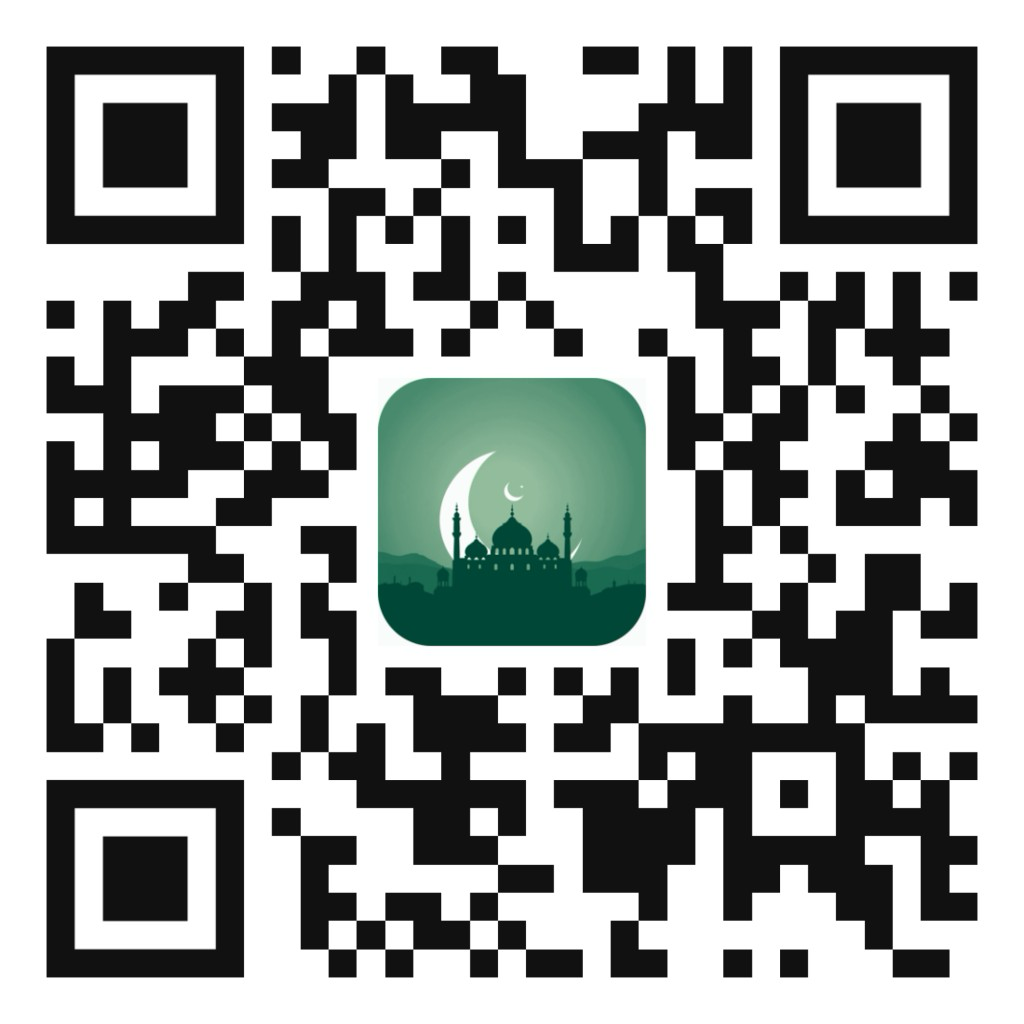
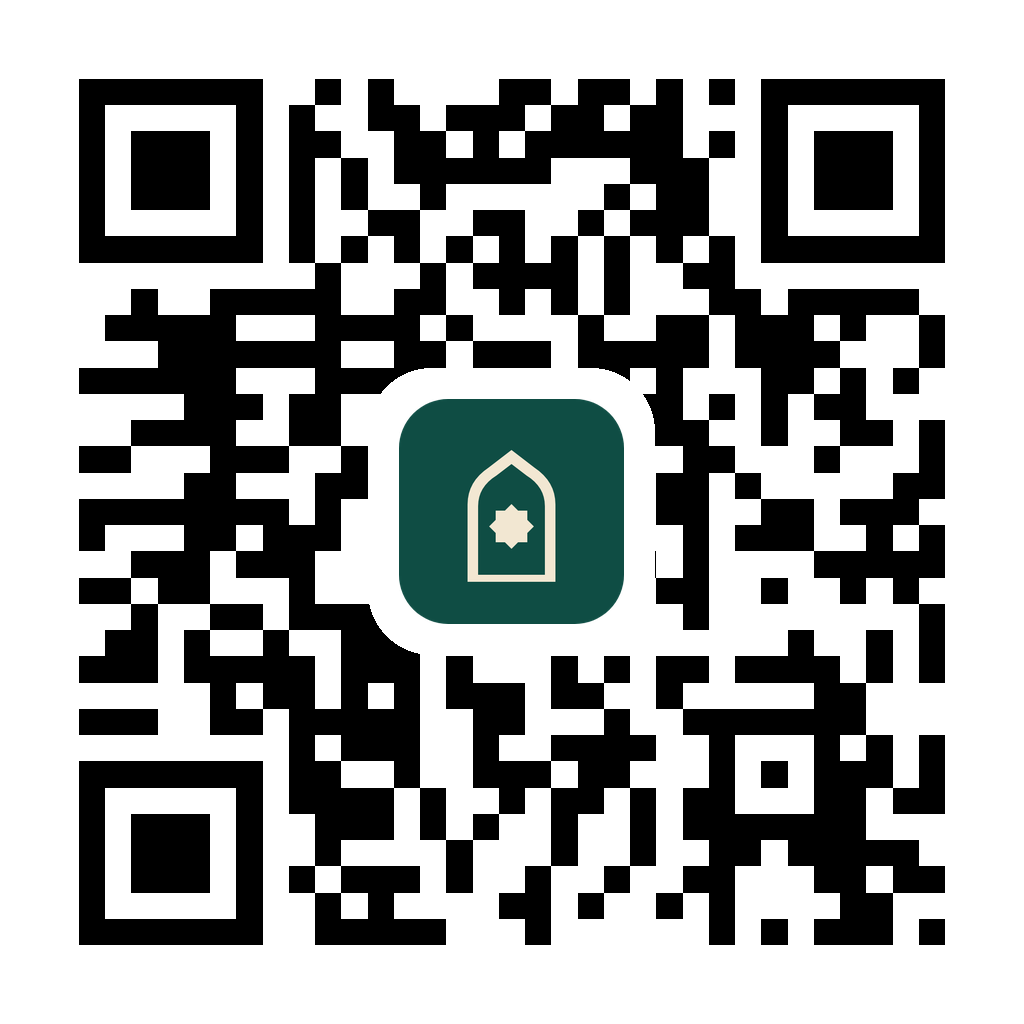
Point the shared month and Settings at the website, not the repo
The share image is the one artefact that leaves the phone and lands in
front of people who do not have the app, and it was handing them a source
tree — with a QR code carrying the app's old mosque-and-crescent icon,
generated once by hand and never touched again through two logo changes
and the launch of a website.

Both now say mihrab.elghamri.se. The QR is regenerated by
branding/tools/qr_code.py rather than exported by hand, so the next time
the address changes it is one command: error correction H, which is what
makes a mark in the middle safe, and the current app icon on a white plate
so the dark green does not merge into the modules around it.

Verified rather than eyeballed: macOS Vision — the same framework the
camera uses — decodes the file to https://mihrab.elghamri.se/, and still
does at 240, 180 and 120px, well under the 60pt it renders at.

Settings' footer link went to the repo too. Someone who has scrolled to the
bottom of Settings wants to know about the app; the source is a different
question, and it is still one tap away from the site and from the
attributions directly below. The mushaf-assets and third-party links there
are unchanged — those genuinely point at GitHub.

Addresses now live in src/config/links.ts instead of as literals in two
screens, which is how they drifted apart in the first place.

diff --git a/src/screens/share/ShareBanner.tsx b/src/screens/share/ShareBanner.tsx
@@ -4,6 +4,7 @@
 import { memo } from 'react';
 import { Image, StyleSheet, Text, View } from 'react-native';
 import { useTranslation } from 'react-i18next';
+import { MIHRAB_WEBSITE_LABEL } from '../../config/links';
 
 /**
  * Top banner of the share-image composite — task #64 split.
@@ -31,7 +32,11 @@ function ShareBannerImpl({
       <View style={[styles.bannerTop, { flexDirection: 'row' }]}>
         <View style={[styles.bannerLeft, { alignItems: 'flex-start' }]}>
           <Text style={styles.appName}>{t('app.name')}</Text>
-          <Text style={styles.githubLink}>github.com/Hassan-PS/Mihrab</Text>
+          {/* The website, not the repo. This image is the one artefact that
+              leaves the phone and lands in front of people who do not have
+              the app — handing them a source tree is answering a question
+              they did not ask. The QR beside it goes to the same place. */}
+          <Text style={styles.siteLink}>{MIHRAB_WEBSITE_LABEL}</Text>
         </View>
         <View style={styles.bannerRight}>
           <Image
@@ -68,7 +73,7 @@ const styles = StyleSheet.create({
   qrCode: { width: 60, height: 60 },
   bannerBottom: { marginTop: 10, gap: 2 },
   appName: { color: '#ffffff', fontSize: 18, fontWeight: '700' },
-  githubLink: { color: '#dcfce7', fontSize: 11 },
+  siteLink: { color: '#dcfce7', fontSize: 11 },
   islamicMonth: { color: '#ffffff', fontSize: 16, fontWeight: '700' },
   gregorianMonth: { color: '#dcfce7', fontSize: 12 },
   locationText: { color: '#dcfce7', fontSize: 11 },

diff --git a/src/screens/settings/AboutCard.tsx b/src/screens/settings/AboutCard.tsx
@@ -18,6 +18,7 @@ import { DEFAULT_SETTINGS } from '../../settings/types';
 import { rateApp } from '../../polish/rateApp';
 import { resetFeatureTour } from '../../polish/FeatureTourModal';
 import { sharedSettingsStyles as s } from './sharedStyles';
+import { MIHRAB_WEBSITE, MIHRAB_WEBSITE_LABEL } from '../../config/links';
 
 function MaybeSupportDeveloperSection({ palette }: { palette: AppPalette }) {
   if (!showDonationsUi()) return null;
@@ -274,14 +275,18 @@ function AboutCardImpl() {
           style={[styles.versionText, { color: palette.muted }]}>
           {t('settings.versionInstalled', { version: versionLabel })}
         </Text>
+        {/* The website, not the repo. Someone who has scrolled to the foot
+            of Settings wants to know about the app; the source tree is a
+            different question, and it is still one tap away from the site
+            and from the attributions below. */}
         <Text
           accessibilityRole="link"
-          accessibilityLabel="github.com/Hassan-PS/Mihrab"
+          accessibilityLabel={MIHRAB_WEBSITE_LABEL}
           style={[styles.versionLink, { color: palette.accent }]}
           onPress={() => {
-            void Linking.openURL('https://github.com/Hassan-PS/Mihrab');
+            void Linking.openURL(MIHRAB_WEBSITE);
           }}>
-          github.com/Hassan-PS/Mihrab
+          {MIHRAB_WEBSITE_LABEL}
         </Text>
       </View>
       <Attributions palette={palette} />

diff --git a/src/config/links.ts b/src/config/links.ts
@@ -1,0 +1,21 @@
+/**
+ * The addresses the app points people at, in one place.
+ *
+ * They were literals scattered across screens, and they drifted: the shared
+ * month image was still printing the GitHub repo — with a QR code carrying
+ * the app's old mosque icon — months after there was a website to send
+ * people to, and Settings sent everyone to the source tree rather than to
+ * the page written for them.
+ *
+ * The website is the front door. GitHub is for people who want the source,
+ * which is a different audience and a different link.
+ */
+
+/** The project's own site. What a stranger should be handed. */
+export const MIHRAB_WEBSITE = 'https://mihrab.elghamri.se';
+
+/** Shown rather than linked — a bare host reads better than a URL. */
+export const MIHRAB_WEBSITE_LABEL = 'mihrab.elghamri.se';
+
+/** The source. Still linked from the attributions, where it belongs. */
+export const MIHRAB_REPO = 'https://github.com/Hassan-PS/Mihrab';

diff --git a/__tests__/siteVersion.test.ts b/__tests__/siteVersion.test.ts
@@ -40,7 +40,7 @@ describe('F-Droid recipe mirror', () => {
 
   it('has a build entry for it', () => {
     expect(recipe).toMatch(
-      new RegExp(`versionName: ${versionName.replace(/\./g, '\\.')}\\b`),
+      new RegExp(`versionName: ${String(versionName).replace(/\./g, '\\.')}\\b`),
     );
     expect(recipe).toMatch(new RegExp(`versionCode: ${versionCode}\\b`));
   });

diff --git a/branding/tools/qr_code.py b/branding/tools/qr_code.py
@@ -1,0 +1,67 @@
+"""The QR code printed on the shared month image.
+
+    python3 branding/tools/qr_code.py
+
+Regenerates `assets/qr-code.png`. It is worth having as a script rather than
+a one-off export because the thing it encodes changes: the first one pointed
+at the GitHub repo and carried the app's old mosque-and-crescent icon, and
+both were still going out on every shared month long after the app had a
+website and a different logo. A shared image is the one artefact that leaves
+the phone and lands in front of people who do not have the app — it is the
+worst place to be a version behind.
+
+Error correction is H (30%), which is what makes a logo in the middle safe:
+the decoder can lose that much of the symbol and still read it. The centre
+sits on a white pad so the icon's dark green does not merge into the modules
+around it.
+"""
+import pathlib
+import sys
+
+import qrcode
+from qrcode.constants import ERROR_CORRECT_H
+from PIL import Image, ImageDraw
+
+ROOT = pathlib.Path(__file__).resolve().parents[2]
+URL = "https://mihrab.elghamri.se/"
+LOGO = ROOT / "assets" / "app-icon-rounded.png"
+OUT = ROOT / "assets" / "qr-code.png"
+SIZE = 1024
+# Share of the QR's width taken by the logo. 0.22 is comfortably inside what
+# H-level correction can lose; past ~0.3 scanning starts to depend on the
+# camera and the light.
+LOGO_FRACTION = 0.22
+
+
+def build(url: str = URL, out: pathlib.Path = OUT) -> pathlib.Path:
+    qr = qrcode.QRCode(error_correction=ERROR_CORRECT_H, border=3, box_size=10)
+    qr.add_data(url)
+    qr.make(fit=True)
+    img = qr.make_image(fill_color="black", back_color="white").convert("RGB")
+    img = img.resize((SIZE, SIZE), Image.NEAREST)
+
+    logo_px = int(SIZE * LOGO_FRACTION)
+    pad = int(logo_px * 0.14)
+    logo = Image.open(LOGO).convert("RGBA").resize(
+        (logo_px, logo_px), Image.LANCZOS
+    )
+
+    # White rounded plate behind the mark, so the icon reads as a separate
+    # object rather than as a blob of modules.
+    plate = logo_px + pad * 2
+    box = Image.new("RGB", (plate, plate), "white")
+    mask = Image.new("L", (plate, plate), 0)
+    ImageDraw.Draw(mask).rounded_rectangle(
+        [0, 0, plate - 1, plate - 1], radius=int(plate * 0.22), fill=255
+    )
+    at = ((SIZE - plate) // 2, (SIZE - plate) // 2)
+    img.paste(box, at, mask)
+    img.paste(logo, (at[0] + pad, at[1] + pad), logo)
+
+    img.save(out)
+    return out
+
+
+if __name__ == "__main__":
+    target = build(sys.argv[1] if len(sys.argv) > 1 else URL)
+    print(f"wrote {target.relative_to(ROOT)} → {URL}")
